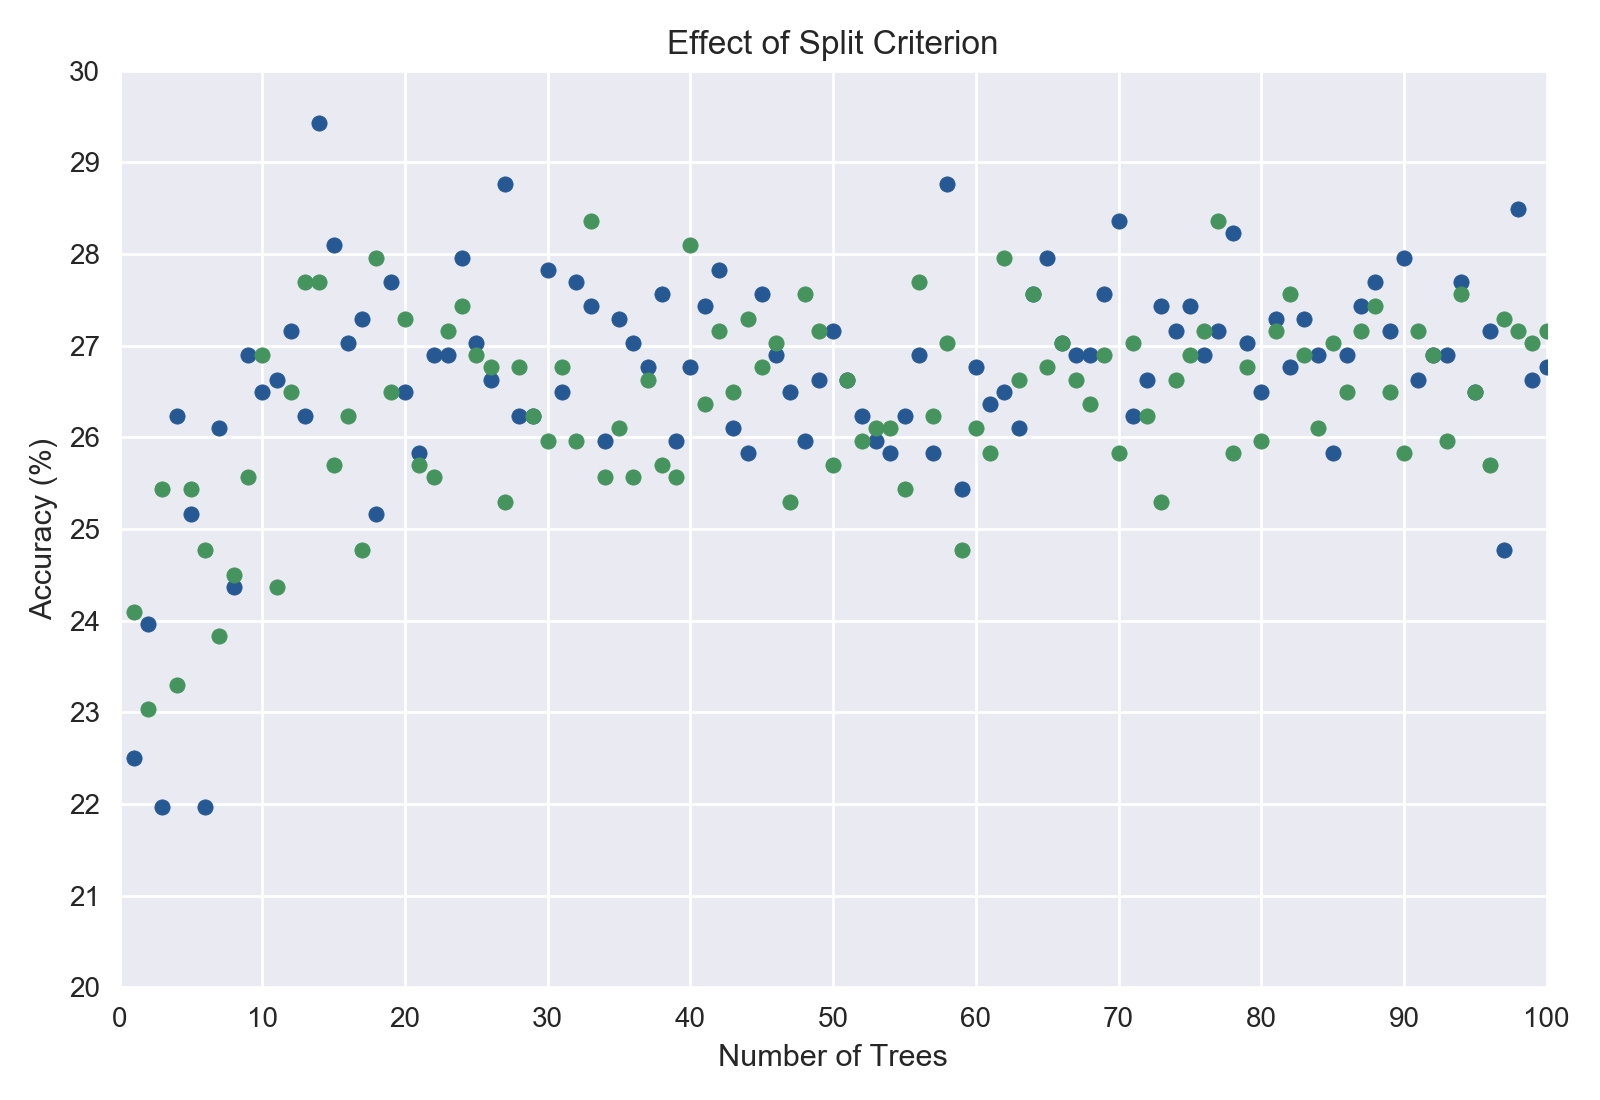
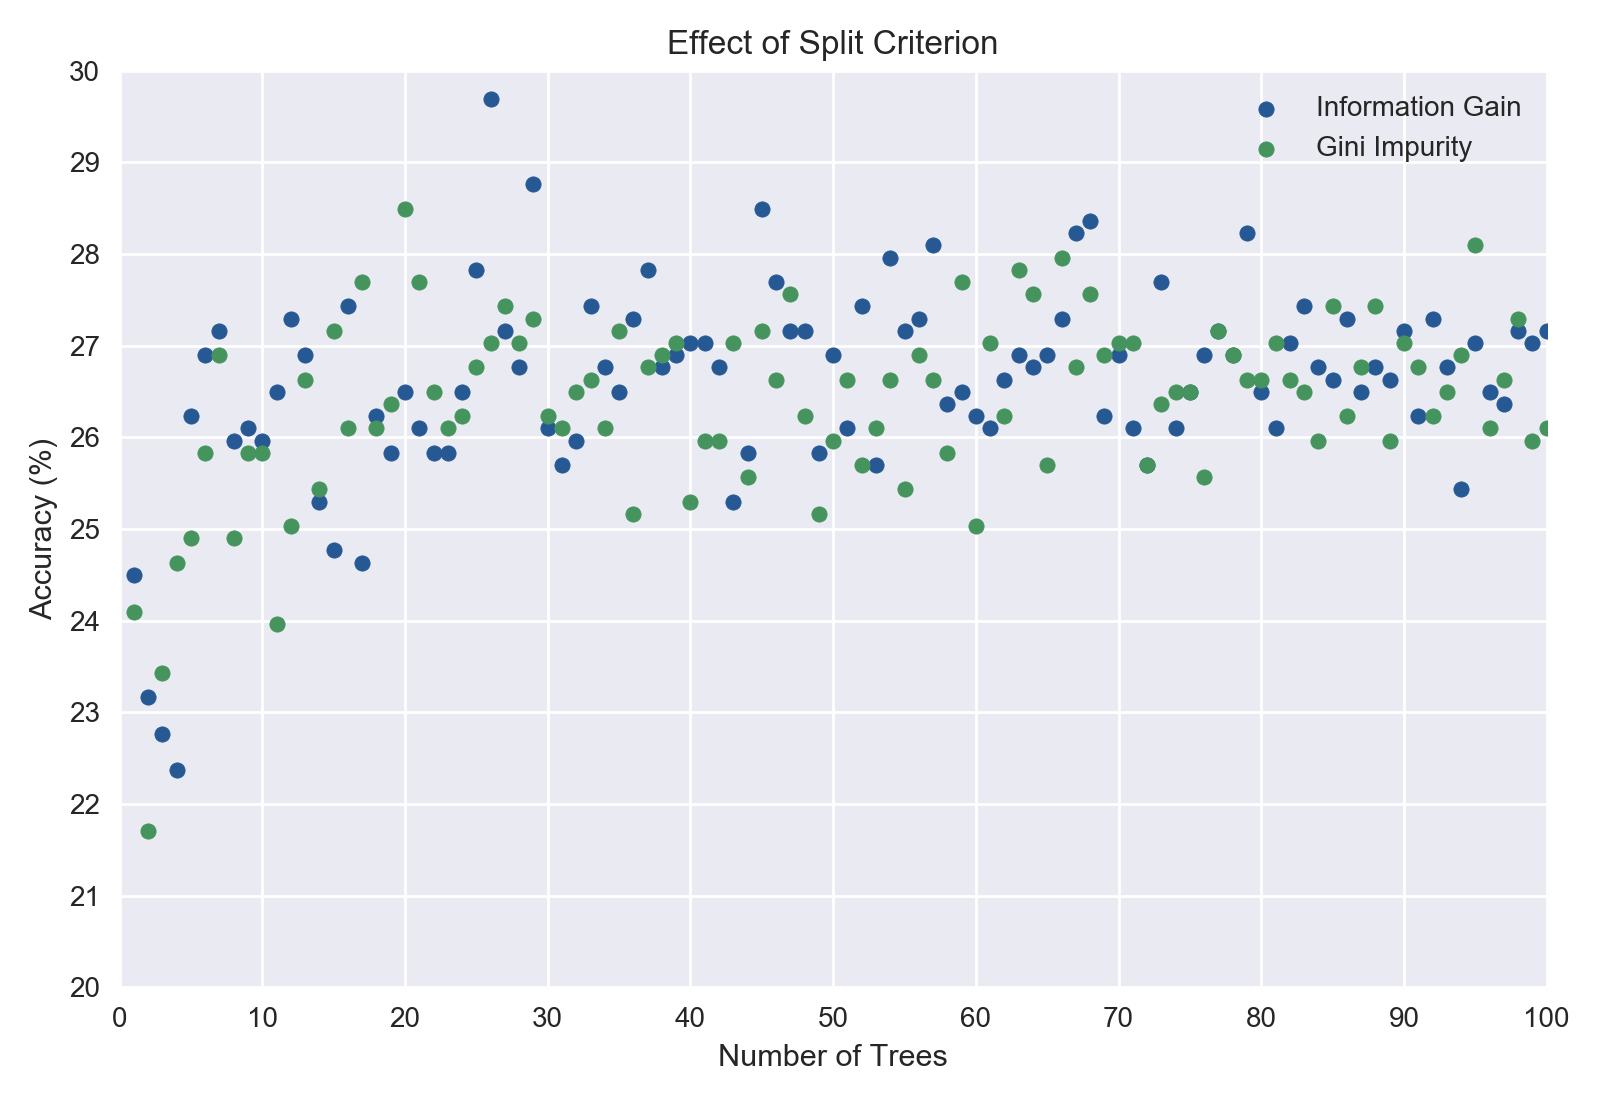
addedmax tree depth

diff --git a/Random Forest/yelpRandomForest.py b/Random Forest/yelpRandomForest.py
@@ -86,15 +86,42 @@ for i in range(100):
 	accuracyEntropy[i] = modelEntropy.score(testingData, testingLabels) * 100
 	accuracyGini[i] = modelGini.score(testingData, testingLabels) * 100
 plt.style.use('seaborn')
-plt.scatter(numberTrees, accuracyEntropy, c = (.15, 0.35, 0.58), s  = 30)
-plt.scatter(numberTrees, accuracyGini, c = (0.27, 0.58, 0.37), s = 30)
+Entropy = plt.scatter(numberTrees, accuracyEntropy, c = (.15, 0.35, 0.58), s  = 30)
+Gini = plt.scatter(numberTrees, accuracyGini, c = (0.27, 0.58, 0.37), s = 30)
 plt.xlabel('Number of Trees')
 plt.ylabel('Accuracy (%)')
 plt.title('Effect of Split Criterion')
+plt.legend((Entropy, Gini),
+           ('Information Gain', 'Gini Impurity'))
 plt.ylim((20, 30))
 plt.yticks(np.arange(20, 31, 1))
 plt.xlim(0, 100)
 plt.xticks(np.arange(0, 101, 10))
+plt.tight_layout()
+plt.show()
+
+"""
+# Max Depth vs Accuracy
+
+accuracyDepth = np.zeros(90)
+depth = np.arange(10, 100, 1)
+for i in range(90):
+	modelDepth = RandomForestClassifier(n_estimators = 30,
+										bootstrap = True,
+										criterion = 'entropy',
+										max_features = 'sqrt',
+										max_depth = depth[i])
+	modelDepth.fit(trainingData, trainingLabels)
+	accuracyDepth[i] = modelDepth.score(testingData, testingLabels) * 100
+plt.style.use('seaborn')
+plt.scatter(depth, accuracyDepth, c = (0.27, 0.58, 0.37), s  = 30)
+plt.xlabel('Maximum Depth')
+plt.ylabel('Accuracy (%)')
+plt.title('Maximum Tree Depth vs Accuracy')
+plt.ylim((24, 31))
+plt.yticks(np.arange(24, 35, 1))
+plt.xlim((10, 100))
+plt.xticks(np.arange(10, 101, 10))
 plt.tight_layout()
 plt.show()
 	#RMSEeasy[i] = np.sqrt(np.sum(np.square(easierPredLabels - easierTestingLabels))/np.size(easierPredLabels))
@@ -103,7 +130,6 @@ plt.show()
 #NRMSE = RMSE/StandardDev
 #NRMSEeasy = RMSEeasy/easierStandardDev
 #print(accuracy)
-"""
 numberTrees = np.arange(1, 101, 1)
 plt.subplot(1,3,1)
 plt.scatter(numberTrees, accuracy, c = 'b')

diff --git a/README.md b/README.md
@@ -122,7 +122,7 @@ When running the Random Forest Classifier on the dataset, three parameters were 
 
 1. The number of trees in the forest
 2. The criterion for deciding the split when building a tree
-3. The maximum depth for each of the trees in teh forest
+3. The maximum depth for each of the trees in the forest
 
 ### Number of Trees in the Forest
 
@@ -134,10 +134,21 @@ From the plot above, there seems to be a rise in accuracy from around 21% to aro
 
 <img src="png_images/SplitCriterionEffect.png" width = "800" />
 
-The two splitting criterion that Random Forest Classifier can use are the Gini impurity and Information Gain Entropy. In order to see if any differences in accuracy due to the splitting critera is maintained, the number of trees in the model was varied. From the plot above, there seems to be no relationship between the accuracy of the Random Forest model and the splitting criterion it utilizes. 
+The two splitting criterion that Random Forest Classifier can use are the Gini Impurity and Information Gain Entropy. The number of trees in the model were varied in order to see if any differences in accuracy could be maintained. From the plot above, there seems to be no relationship between the accuracy of the Random Forest model and the splitting criterion it utilizes. 
 
+### Maximum Depth of Trees
 
+<img src="png_images/treeDepthVsAccuracy.png" width = "800" />
 
+A range from 10-100 was examined for the maximum depth of a tree and its effect on the accuracy of the model. The model's accuracy seems to peak at around a depth of 10, before stabilizing around 27 %. Perhaps by minimizing the depth of the tree, the model avoids overfitting the training data and creates better predictions. 
+
+### Results
+
+A Random Forest Classifier was run with the following parameters: 
+
+| Parameter | Value |
+| :---: | :---:|
+| Number of Trees | 02934|
 
 
 
